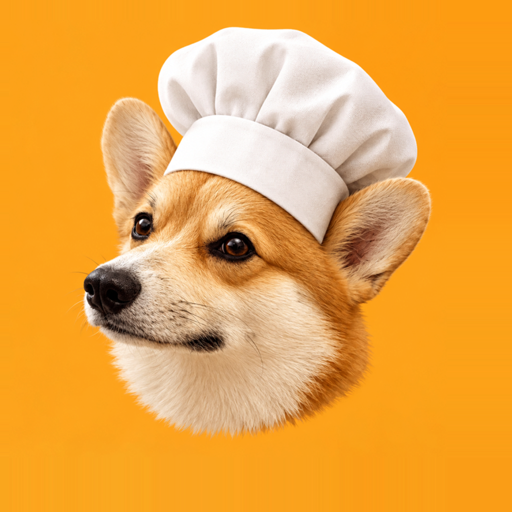
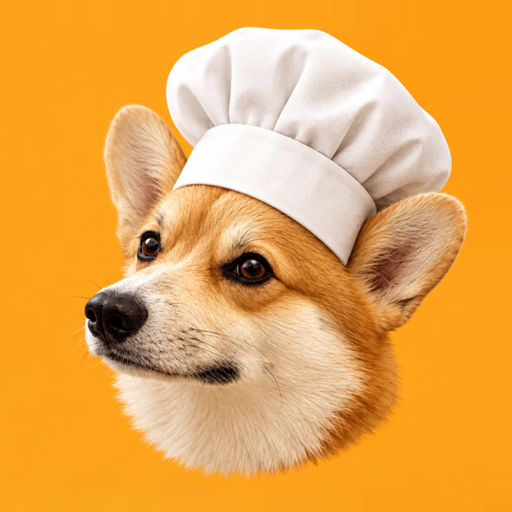
feat(pwa): корги на иконке ещё крупнее, вправо и вниз
Рисунок увеличен ещё на 10% с опорой на левый верхний угол собаки;
пересчитан из исходника до прошлой правки, чтобы не мылить дважды.

diff --git a/.github/pwa/sw.js b/.github/pwa/sw.js
@@ -1,6 +1,6 @@
 // Service worker сайта с рецептами: страницы и картинки, которые уже
 // открывались, остаются доступны без интернета.
-const CACHE = 'recipes-v6';
+const CACHE = 'recipes-v7';
 
 self.addEventListener('install', (event) => {
   // Главная страница нужна сразу, чтобы приложение открывалось офлайн.
